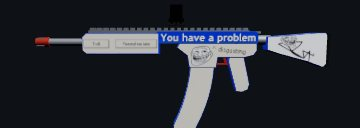
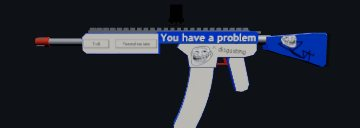
Skins: Problem's stock figure on the trim blue (picture paper keyed out)

Changed region(s): [[0.7333, 0.25, 0.9167, 0.5312]]

diff --git a/tools/troll-skin-draw.js b/tools/troll-skin-draw.js
@@ -15,7 +15,10 @@
 //
 // A part can take its art from its own picture instead of the banner:
 // skin.art = { stock: "problem-stock.jpg" } (files in assets/images/skin-art).
-// That part's crop is then a crop of the picture, on both sides.
+// That part's crop is then a crop of the picture, on both sides. Written
+// { file, bg }, the picture's white paper is keyed out and `bg` shows
+// through instead; `paper` adds [x, y] points (fractions of the picture) in
+// white shut in by lines that is paper too.
 
 import { SKIN_ATLAS } from "../assets/games/troll-ops/skins.js";
 import { PANELS_416, panelBounds } from "../assets/games/troll-ops/weapon-416.js";
@@ -30,10 +33,70 @@ export const bannerImage = async (file) => (banners[file] ||= await loadImage(ne
 const arts = {};
 export const artImage = async (file) => (arts[file] ||= await loadImage(new URL(`../assets/images/skin-art/${file}`, import.meta.url).href));
 /* The parts that have their own picture, loaded: { part: image }. */
+const keyed = new Map();
 export async function partArt(skin) {
   const out = {};
-  for (const [key, file] of Object.entries(skin.art || {})) out[key] = await artImage(file);
+  for (const [key, v] of Object.entries(skin.art || {})) {
+    const { file, bg, paper = [] } = typeof v === "string" ? { file: v } : v;
+    const img = await artImage(file);
+    if (!bg) { out[key] = img; continue; }
+    const id = file + bg + JSON.stringify(paper);
+    if (!keyed.has(id)) keyed.set(id, paperKeyed(img, bg, paper));
+    out[key] = keyed.get(id);
+  }
   return out;
+}
+
+/* Line art on white, put on a colour: the paper is flooded out from the
+   picture's edges (so white inside an outline, like the trollface, stays),
+   and the grey at the edge of each line keeps only its darkness, so no
+   white fringe is left round the lines. */
+function paperKeyed(img, bg, paper) {
+  const w = img.width, h = img.height;
+  const c = document.createElement("canvas");
+  c.width = w; c.height = h;
+  const g = c.getContext("2d", { willReadFrequently: true });
+  g.drawImage(img, 0, 0);
+  const id = g.getImageData(0, 0, w, h), d = id.data;
+  const lum = (k) => (d[k * 4] + d[k * 4 + 1] + d[k * 4 + 2]) / 3;
+  const out = new Uint8Array(w * h);
+  const stack = [];
+  const push = (x, y) => { const k = y * w + x; if (!out[k] && lum(k) > 200) { out[k] = 1; stack.push(k); } };
+  for (let x = 0; x < w; x++) { push(x, 0); push(x, h - 1); }
+  for (let y = 0; y < h; y++) { push(0, y); push(w - 1, y); }
+  for (const [px, py] of paper) push(Math.round(px * (w - 1)), Math.round(py * (h - 1)));
+  while (stack.length) {
+    const k = stack.pop(), x = k % w, y = (k - x) / w;
+    if (x > 0) push(x - 1, y);
+    if (x < w - 1) push(x + 1, y);
+    if (y > 0) push(x, y - 1);
+    if (y < h - 1) push(x, y + 1);
+  }
+  // Pixels within 2 of the paper are line edges.
+  let edge = out;
+  for (let pass = 0; pass < 2; pass++) {
+    const next = edge.slice();
+    for (let k = 0; k < w * h; k++) {
+      if (edge[k]) continue;
+      const x = k % w;
+      if ((x > 0 && edge[k - 1]) || (x < w - 1 && edge[k + 1]) || edge[k - w] || edge[k + w]) next[k] = 1;
+    }
+    edge = next;
+  }
+  for (let k = 0; k < w * h; k++) {
+    if (out[k]) { d[k * 4 + 3] = 0; continue; }
+    if (!edge[k]) continue;
+    d[k * 4] = d[k * 4 + 1] = d[k * 4 + 2] = 0;
+    d[k * 4 + 3] = Math.min(255, (255 - lum(k)) * 1.5);
+  }
+  g.putImageData(id, 0, 0);
+  const o = document.createElement("canvas");
+  o.width = w; o.height = h;
+  const og = o.getContext("2d");
+  og.fillStyle = bg;
+  og.fillRect(0, 0, w, h);
+  og.drawImage(c, 0, 0);
+  return o;
 }
 
 /* Banner pieces a skin moves around: text it rewrites, and bits of art it

diff --git a/troll-ops.html b/troll-ops.html
@@ -12,7 +12,7 @@
   <link rel="preconnect" href="https://fonts.gstatic.com" crossorigin>
   <link href="https://fonts.googleapis.com/css2?family=Oswald:wght@500;600;700&family=DM+Sans:wght@500;700;900&family=DM+Mono:wght@500;700&display=swap" rel="stylesheet">
   <link rel="stylesheet" href="assets/css/troll-leaderboard.css?v=lb-engine-v1">
-  <link rel="stylesheet" href="assets/games/troll-ops/style.css?v=to-skins14">
+  <link rel="stylesheet" href="assets/games/troll-ops/style.css?v=to-skins15">
 </head>
 <body>
 
@@ -586,7 +586,7 @@
   </script>
   <script src="assets/js/troll-leaderboard.js?v=lb-engine-v1" defer></script>
   <script src="assets/games/troll-ops/leaderboard.js?v=to-lb-p2" defer></script>
-  <script type="module" src="assets/games/troll-ops/game.js?v=to-skins14"></script>
+  <script type="module" src="assets/games/troll-ops/game.js?v=to-skins15"></script>
 
   <script src="https://cdn.jsdelivr.net/npm/@supabase/supabase-js@2.110.3" integrity="sha384-uVefCux0Kf6w34gQVv8+jUPUwvwFUdnrcwI1kOJHs7sfPPXdDDucwcrPrppD6oUe" crossorigin="anonymous"></script>
   <script src="https://mayurski-art.github.io/assets/js/troll-accounts.js"></script>

diff --git a/assets/games/troll-ops/skins.js b/assets/games/troll-ops/skins.js
@@ -52,14 +52,14 @@ export const SKINNABLE = new Set(["problem416"]);
    banner) is painted over and `text` written back in the banner's pixel
    style — edit it in the skin editor. `art` gives a part its own picture
    (assets/images/skin-art) in place of the banner: that part's crop is then
-   a crop of the picture. */
+   a crop of the picture; { file, bg } keys out its white paper onto `bg`. */
 export const SKINS = [
   {
     id: "problem", name: "You Have a Problem", banner: "banner-16.jpg",
     blurb: "An error dialog that shoots back.",
     final: true,
     palette: { trim: "#1f4fd1", ink: "#10131c", metal: 0xb9bcc2, accent: 0xd9492b },
-    art: { stock: "problem-stock.jpg" },
+    art: { stock: { file: "problem-stock.jpg", bg: "#1f4fd1", paper: [[0.47, 0.554], [0.247, 0.573], [0.605, 0.708]] } },
     crops: {
       upper: [0.235, 0.12, 0.47],
       lower: [0.31, 0.46, 0.34, 0, 1],

diff --git a/assets/games/troll-ops/HANDOFF.md b/assets/games/troll-ops/HANDOFF.md
@@ -7,7 +7,7 @@ game-improvements:main`): "push" means land it on main. After pushing, also
 or they see stale files there. github.com DNS drops out now and then; retry the
 push in a loop. Sync test: `NODE_PATH=<main checkout>/node_modules node
 tools/troll-ops-sync-test.mjs` (passes). Cache-bust in troll-ops.html is
-`?v=to-skins14` (game.js + style.css); bump it on any change to either.
+`?v=to-skins15` (game.js + style.css); bump it on any change to either.
 
 ## Where we are
 
@@ -55,7 +55,9 @@ waiting. Ask before starting anything new.
   `art: { stock: "problem-stock.jpg" }` (files in assets/images/skin-art). That
   part's crop is a crop of the picture, on both sides (the right just mirrors
   it: no text flipping). The editor shows the picture when the part is
-  selected. You Have a Problem's stock uses the trollface stick figure.
+  selected. `{ file, bg, paper }` keys the picture's white paper out onto
+  `bg` (paper: extra [x, y] seeds for white shut in by lines). You Have a
+  Problem's stock: the trollface stick figure on the trim blue.
 
 ### The sides formula (user rule, in memory too)
 The right side **mirrors** the left: the same art at the same spot along the
